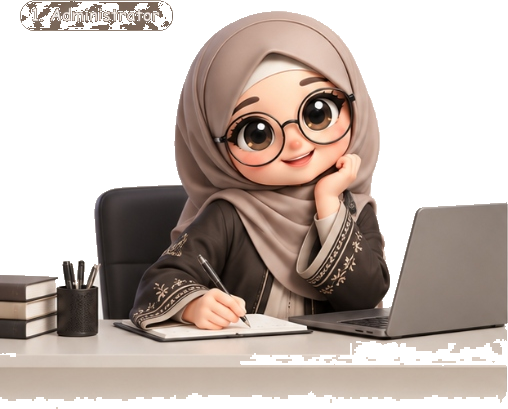
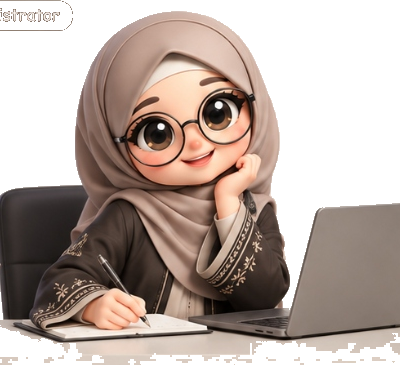
Fix mobile role card text truncation and unify half-body Us Halwaa pop-out graphics

diff --git a/app/page.tsx b/app/page.tsx
@@ -210,14 +210,14 @@ export default function LandingPortalPage() {
           </p>
         </div>
 
-        {/* 4 TOMBOL AKSES ROLE - POP-OUT HOVER US. HALWAA (BARIS 1: ADMIN | PIMPINAN, BARIS 2: PENERIMA TAMU | PENJAGA GERBANG) */}
+        {/* 4 TOMBOL AKSES ROLE - POP-OUT HOVER US. HALWAA (HALF-BODY KEPALA-PINGGANG SEMUA ROLE) */}
         <div className="grid grid-cols-2 gap-2.5 md:gap-3">
           {ROLE_BUTTONS.map(({ key, icon: Icon, image, color }) => {
             const config = ROLES_CONFIG[key];
             return (
               <div key={key} className="relative group hover:z-30 z-10">
-                {/* FOTO US. HALWAA — MUNCUL (POP-OUT) DARI BELAKANG KARTU SAAT HOVER */}
-                <div className="absolute left-1/2 -translate-x-1/2 bottom-[75%] opacity-0 group-hover:opacity-100 group-hover:bottom-[85%] transition-all duration-300 ease-out pointer-events-none z-0">
+                {/* FOTO US. HALWAA — MUNCUL (POP-OUT HALF-BODY) DARI BELAKANG KARTU SAAT HOVER */}
+                <div className="absolute left-1/2 -translate-x-1/2 bottom-[78%] opacity-0 group-hover:opacity-100 group-hover:bottom-[86%] transition-all duration-300 ease-out pointer-events-none z-0">
                   <img
                     src={image}
                     alt={`Us. Halwaa - ${config.title}`}
@@ -229,15 +229,15 @@ export default function LandingPortalPage() {
                 <button
                   type="button"
                   onClick={() => handleOpenRoleModal(key)}
-                  className={`relative z-10 flex items-center gap-2.5 p-3 md:p-4 ${color.bg} rounded-2xl border ${color.border} ${color.hoverBorder} shadow-xs hover:shadow-lg transition-all text-left w-full cursor-pointer active:scale-[0.98]`}
+                  className={`relative z-10 flex items-center gap-2 sm:gap-2.5 p-2.5 sm:p-3 md:p-4 ${color.bg} rounded-2xl border ${color.border} ${color.hoverBorder} shadow-xs hover:shadow-lg transition-all text-left w-full cursor-pointer active:scale-[0.98] min-w-0`}
                 >
-                  <div className={`w-9 h-9 md:w-10 md:h-10 flex items-center justify-center rounded-xl ${color.iconBg} ${color.iconText} border border-current/10 shrink-0`}>
-                    <Icon className="w-[18px] h-[18px] md:w-5 md:h-5" />
+                  <div className={`w-8 h-8 sm:w-9 sm:h-9 md:w-10 md:h-10 flex items-center justify-center rounded-xl ${color.iconBg} ${color.iconText} border border-current/10 shrink-0`}>
+                    <Icon className="w-4 h-4 sm:w-[18px] sm:h-[18px] md:w-5 md:h-5" />
                   </div>
-                  <span className={`font-serif font-black text-sm md:text-base text-[#422F21] ${color.hoverAccent} transition-colors leading-tight`}>
+                  <span className={`font-serif font-black text-xs sm:text-sm md:text-base text-[#422F21] ${color.hoverAccent} transition-colors leading-tight break-words min-w-0 flex-1 pr-2.5`}>
                     {config.title}
                   </span>
-                  <Lock className="absolute top-2.5 right-2.5 w-3.5 h-3.5 text-[#8C6A47]/40 group-hover:text-[#8C6A47] transition-colors" />
+                  <Lock className="absolute top-2 sm:top-2.5 right-2 sm:right-2.5 w-3 h-3 sm:w-3.5 sm:h-3.5 text-[#8C6A47]/40 group-hover:text-[#8C6A47] transition-colors" />
                 </button>
               </div>
             );
